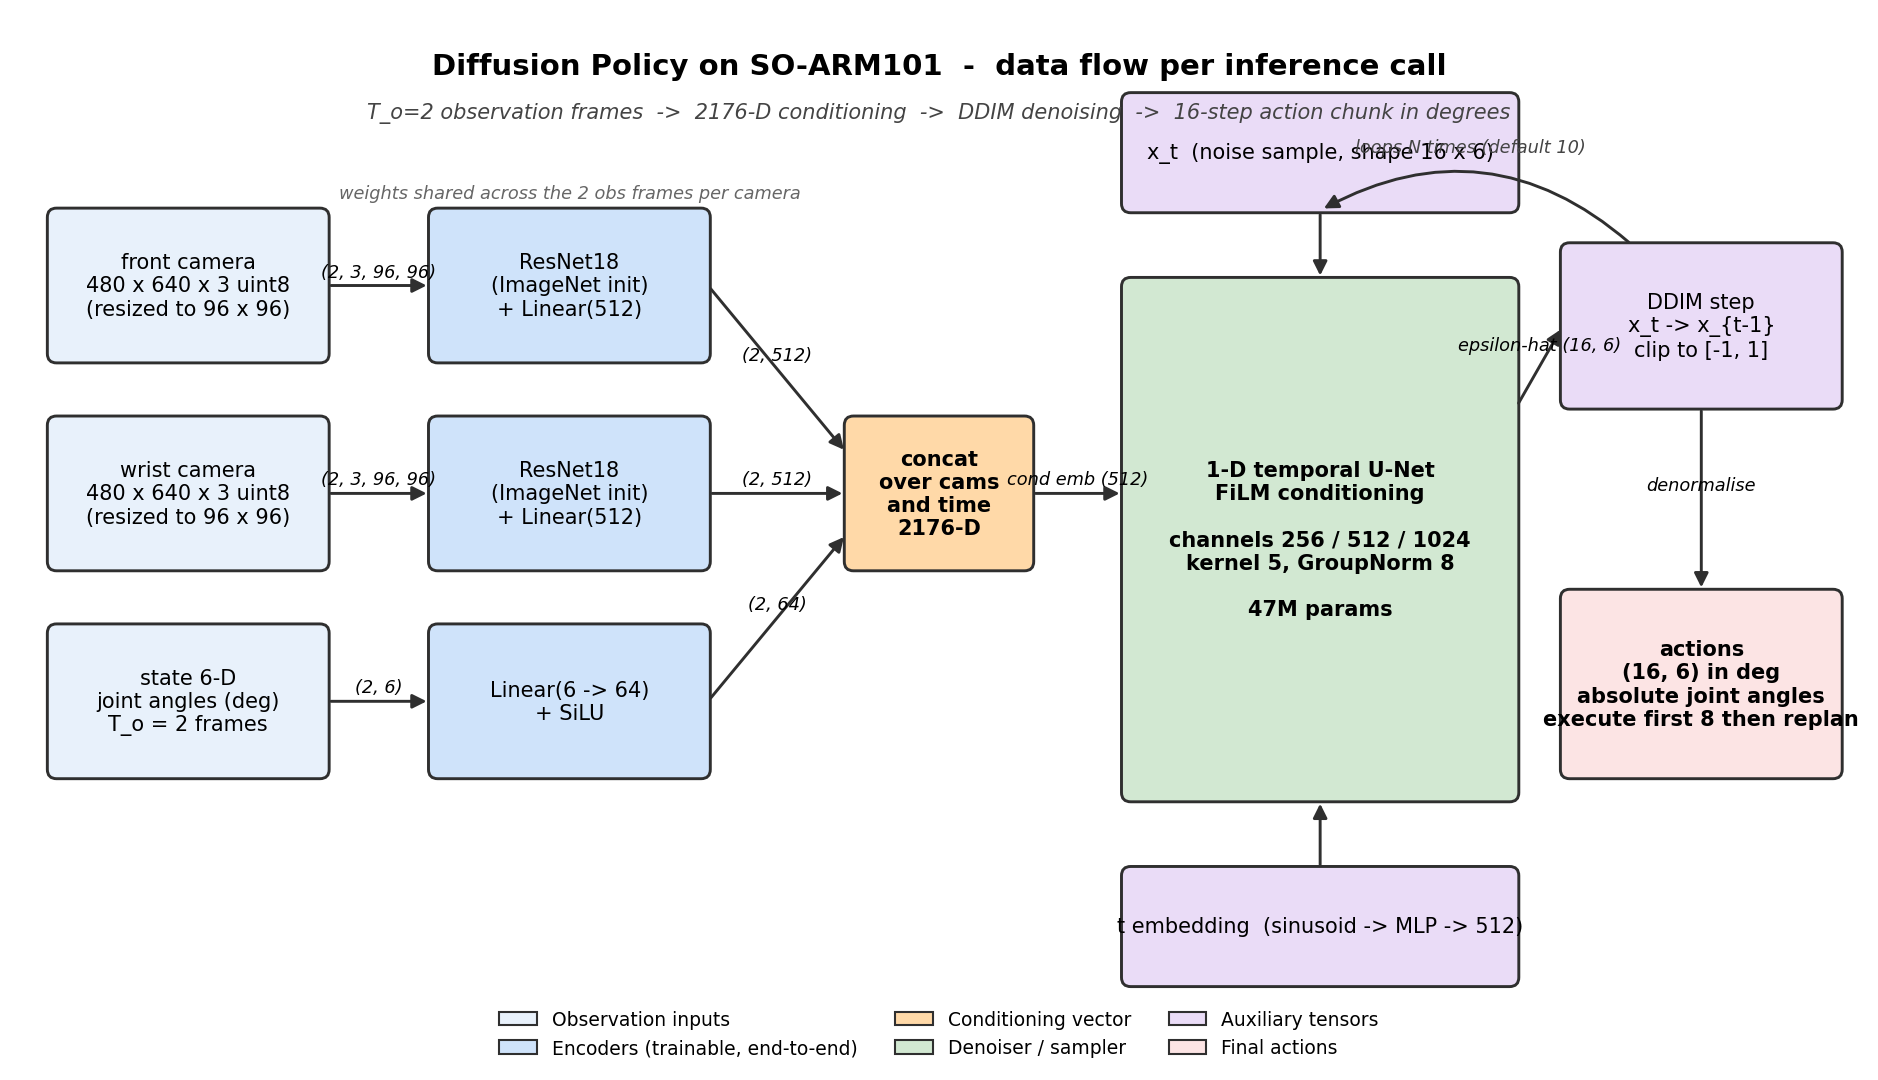
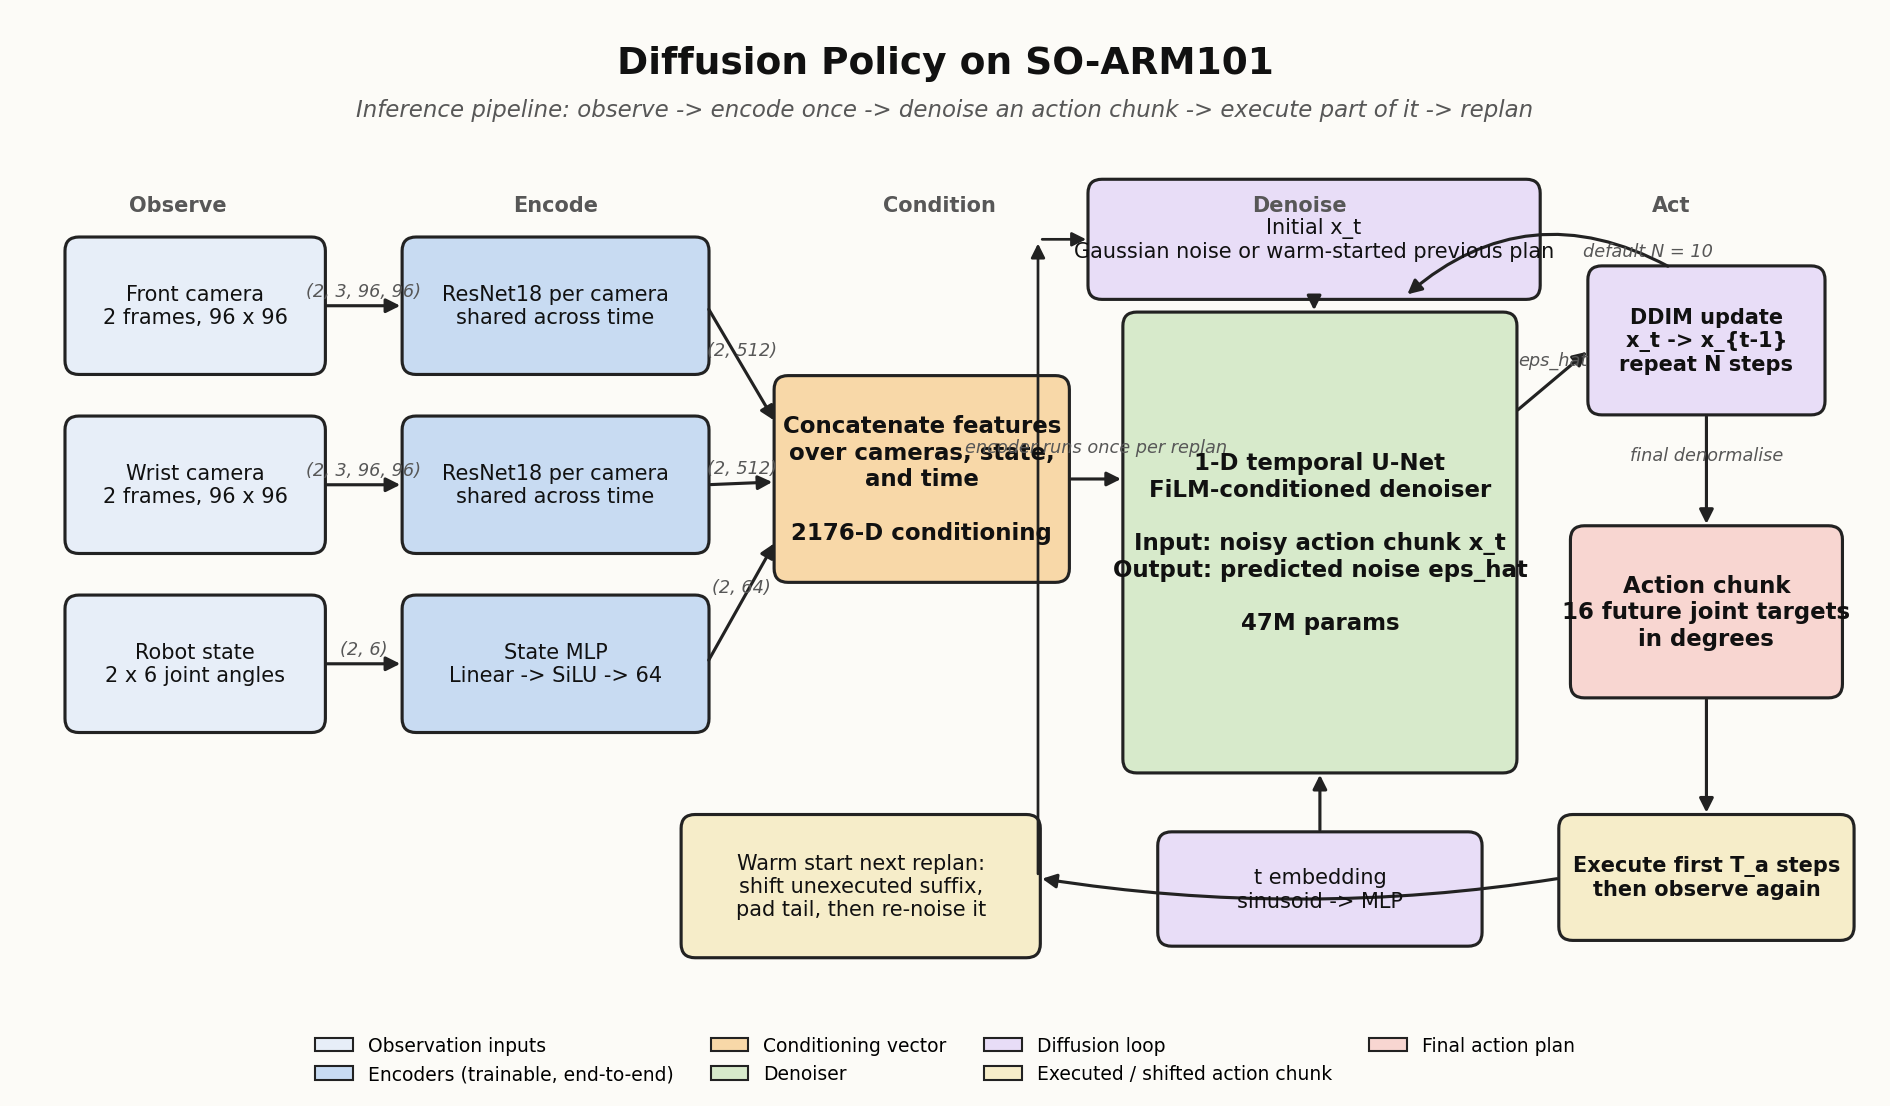
fix

Changed region(s): [[0.0309, 0.0306, 0.9883, 0.9778], [0.0309, 0.7028, 0.1853, 0.7333], [0.4633, 0.1528, 0.525, 0.2139]]

diff --git a/diffusion_policy_soarm/infer.py b/diffusion_policy_soarm/infer.py
@@ -262,10 +262,9 @@ def main(argv: list[str] | None = None) -> None:
 
     cfg = load_config(args.config, overrides or None)
 
-    # Override sampler to DDIM with the configured step count.
+    # Set inference steps from infer.num_ddim_steps; sampler comes from config/CLI.
     cfg = OmegaConf.merge(cfg, OmegaConf.create({
         "diffusion": {
-            "sampler": "ddim",
             "num_inference_steps": int(cfg.infer.num_ddim_steps),
         }
     }))

diff --git a/README.md b/README.md
@@ -44,28 +44,31 @@ only after Phase 8 (eval harness) and Phase 9 (ablations) complete.
 
 ```mermaid
 flowchart LR
-  subgraph IN["Observation window (T_o = 2 frames)"]
-    Front["front camera<br/>480 x 640 x 3 uint8<br/>(resized to 96 x 96)"]
-    Wrist["wrist camera<br/>480 x 640 x 3 uint8<br/>(resized to 96 x 96)"]
-    State["state 6-D<br/>(joint angles deg)"]
+  subgraph Observe["Observe: T_o = 2"]
+    Front["Front camera<br/>2 frames, 96 x 96"]
+    Wrist["Wrist camera<br/>2 frames, 96 x 96"]
+    State["Robot state<br/>2 x 6 joint angles"]
   end
 
-  Front -->|ResNet18 per camera| F["front features<br/>(2, 512)"]
-  Wrist -->|ResNet18 per camera| W["wrist features<br/>(2, 512)"]
-  State -->|Linear + SiLU| S["state embed<br/>(2, 64)"]
+  Front -->|ResNet18 per camera| F["Front features<br/>(2, 512)"]
+  Wrist -->|ResNet18 per camera| W["Wrist features<br/>(2, 512)"]
+  State -->|State MLP| S["State features<br/>(2, 64)"]
 
-  F --> C(("concat<br/>2176-D"))
+  F --> C["Concatenate over cameras,<br/>state and time<br/>2176-D conditioning"]
   W --> C
   S --> C
 
-  C --> UNet["1-D temporal U-Net<br/>FiLM conditioning<br/>channels 256 / 512 / 1024<br/>47M params"]
-  Noise["x_t noise (16, 6)"] --> UNet
-  TS["t embedding<br/>(sinusoid -> MLP -> 512)"] --> UNet
-  UNet --> EpsHat["epsilon-hat (16, 6)"]
+  C --> UNet["1-D temporal U-Net<br/>FiLM-conditioned denoiser<br/>input x_t, output eps_hat"]
+  Noise["Initial x_t<br/>Gaussian noise or warm start"] --> UNet
+  TS["t embedding<br/>sinusoid -> MLP"] --> UNet
+  UNet --> EpsHat["Predicted noise<br/>eps_hat"]
 
-  EpsHat --> DDIM["DDIM step (loops N times)"]
+  EpsHat --> DDIM["DDIM update<br/>x_t -> x_t-1<br/>repeat N times"]
   DDIM -->|x_t -> x_t-1| UNet
-  DDIM --> Out["actions (16, 6) deg<br/>saved main_96x96 executes first 4 then replan"]
+  DDIM --> Out["16-step action chunk<br/>absolute joint targets in degrees"]
+  Out --> Exec["Execute first T_a steps<br/>then re-observe"]
+  Exec --> Warm["Shift unexecuted suffix,<br/>pad tail, re-noise"]
+  Warm --> Noise
 ```
 
 </details>